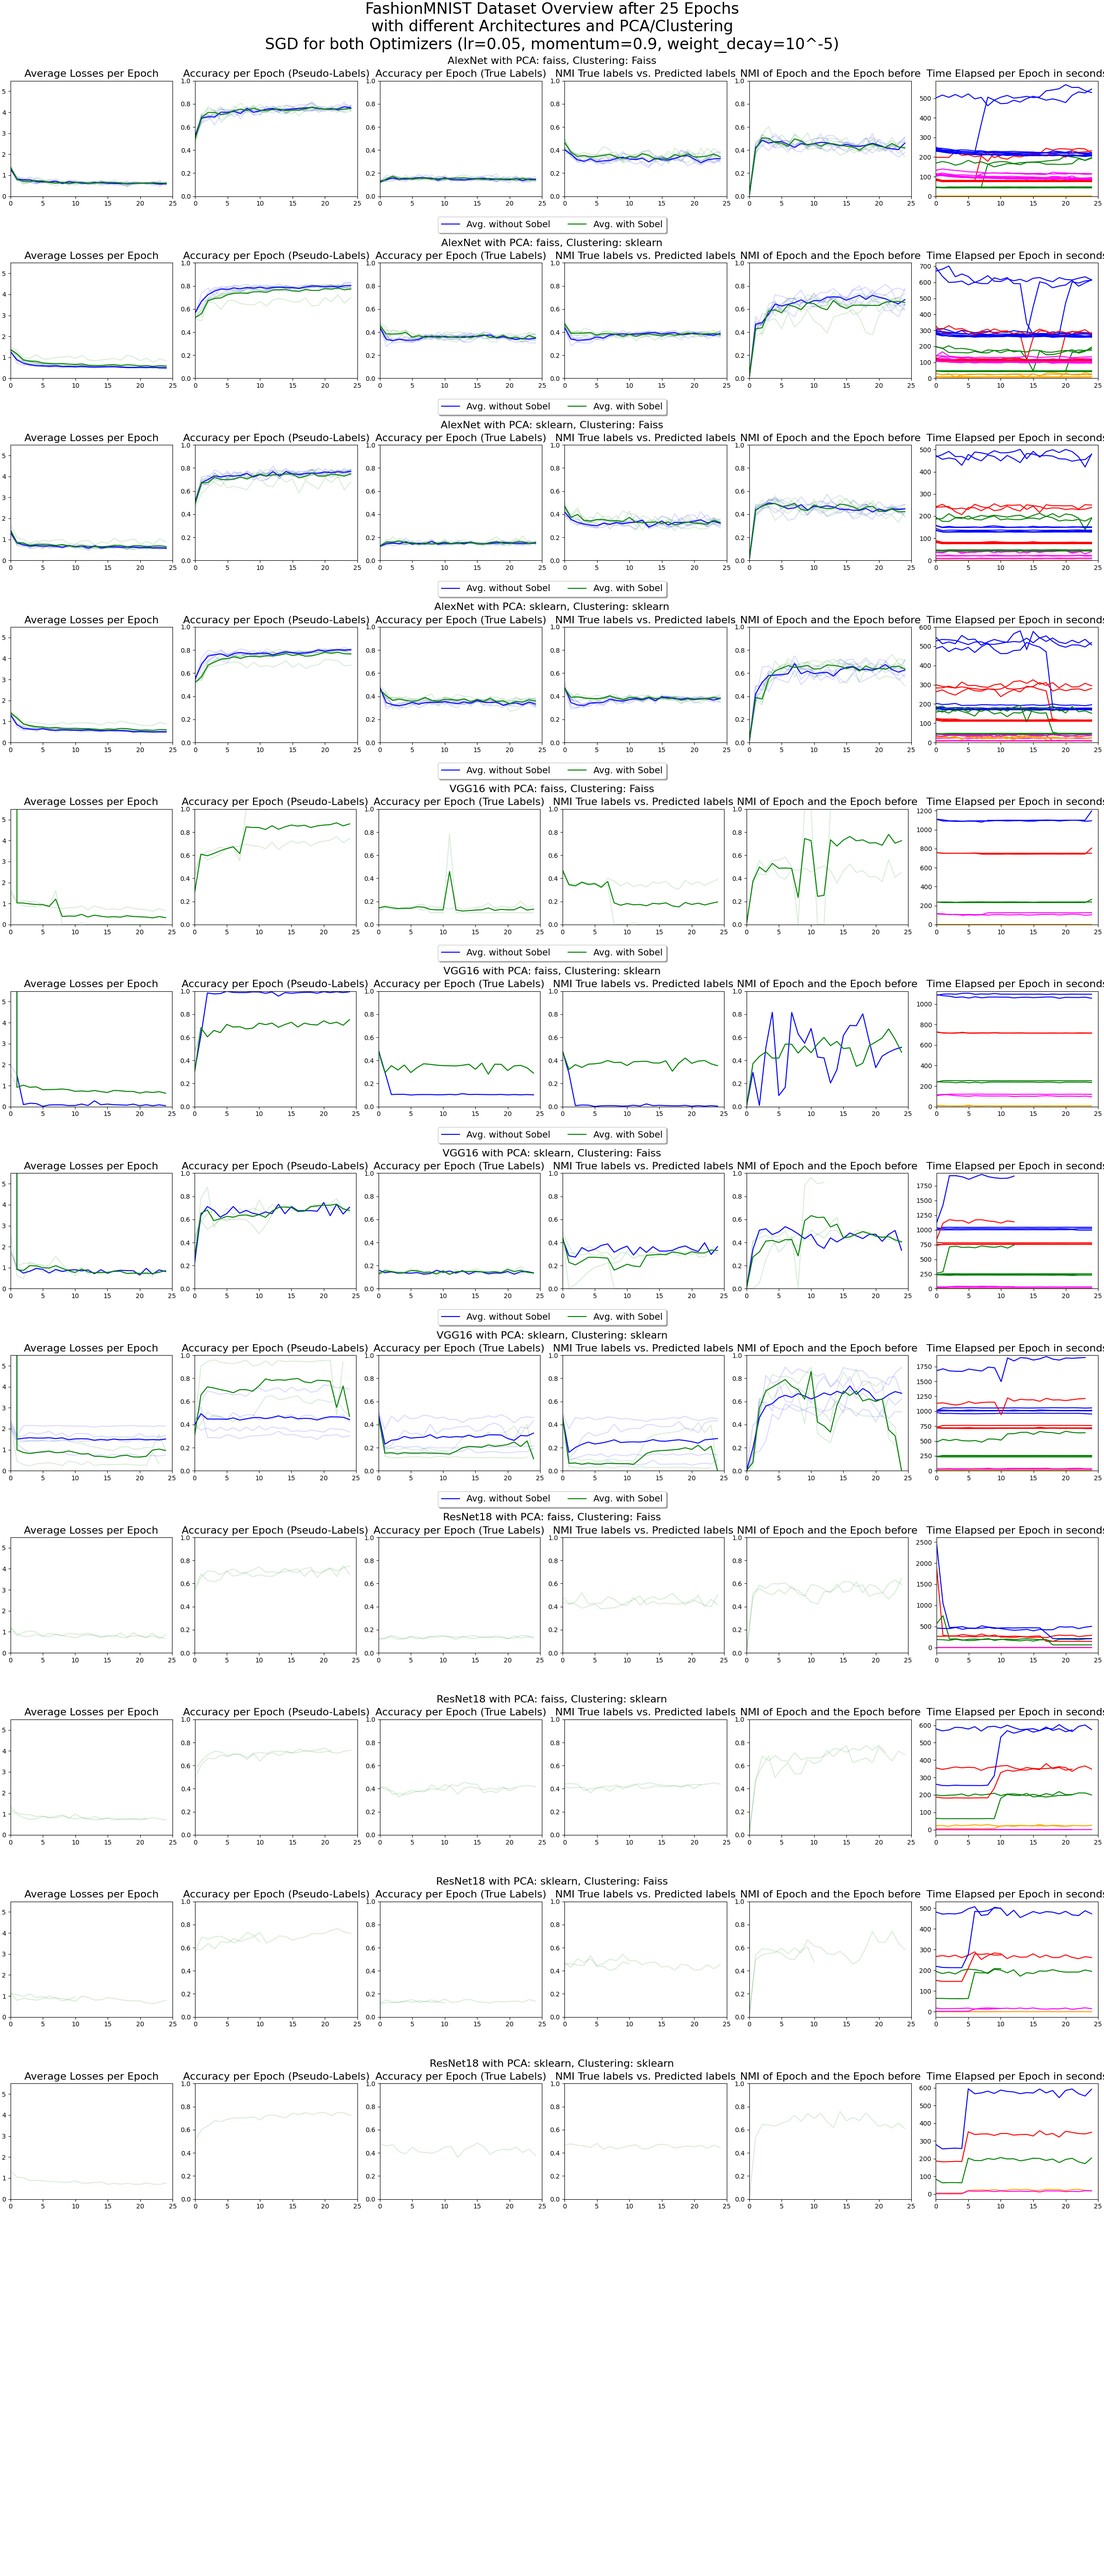
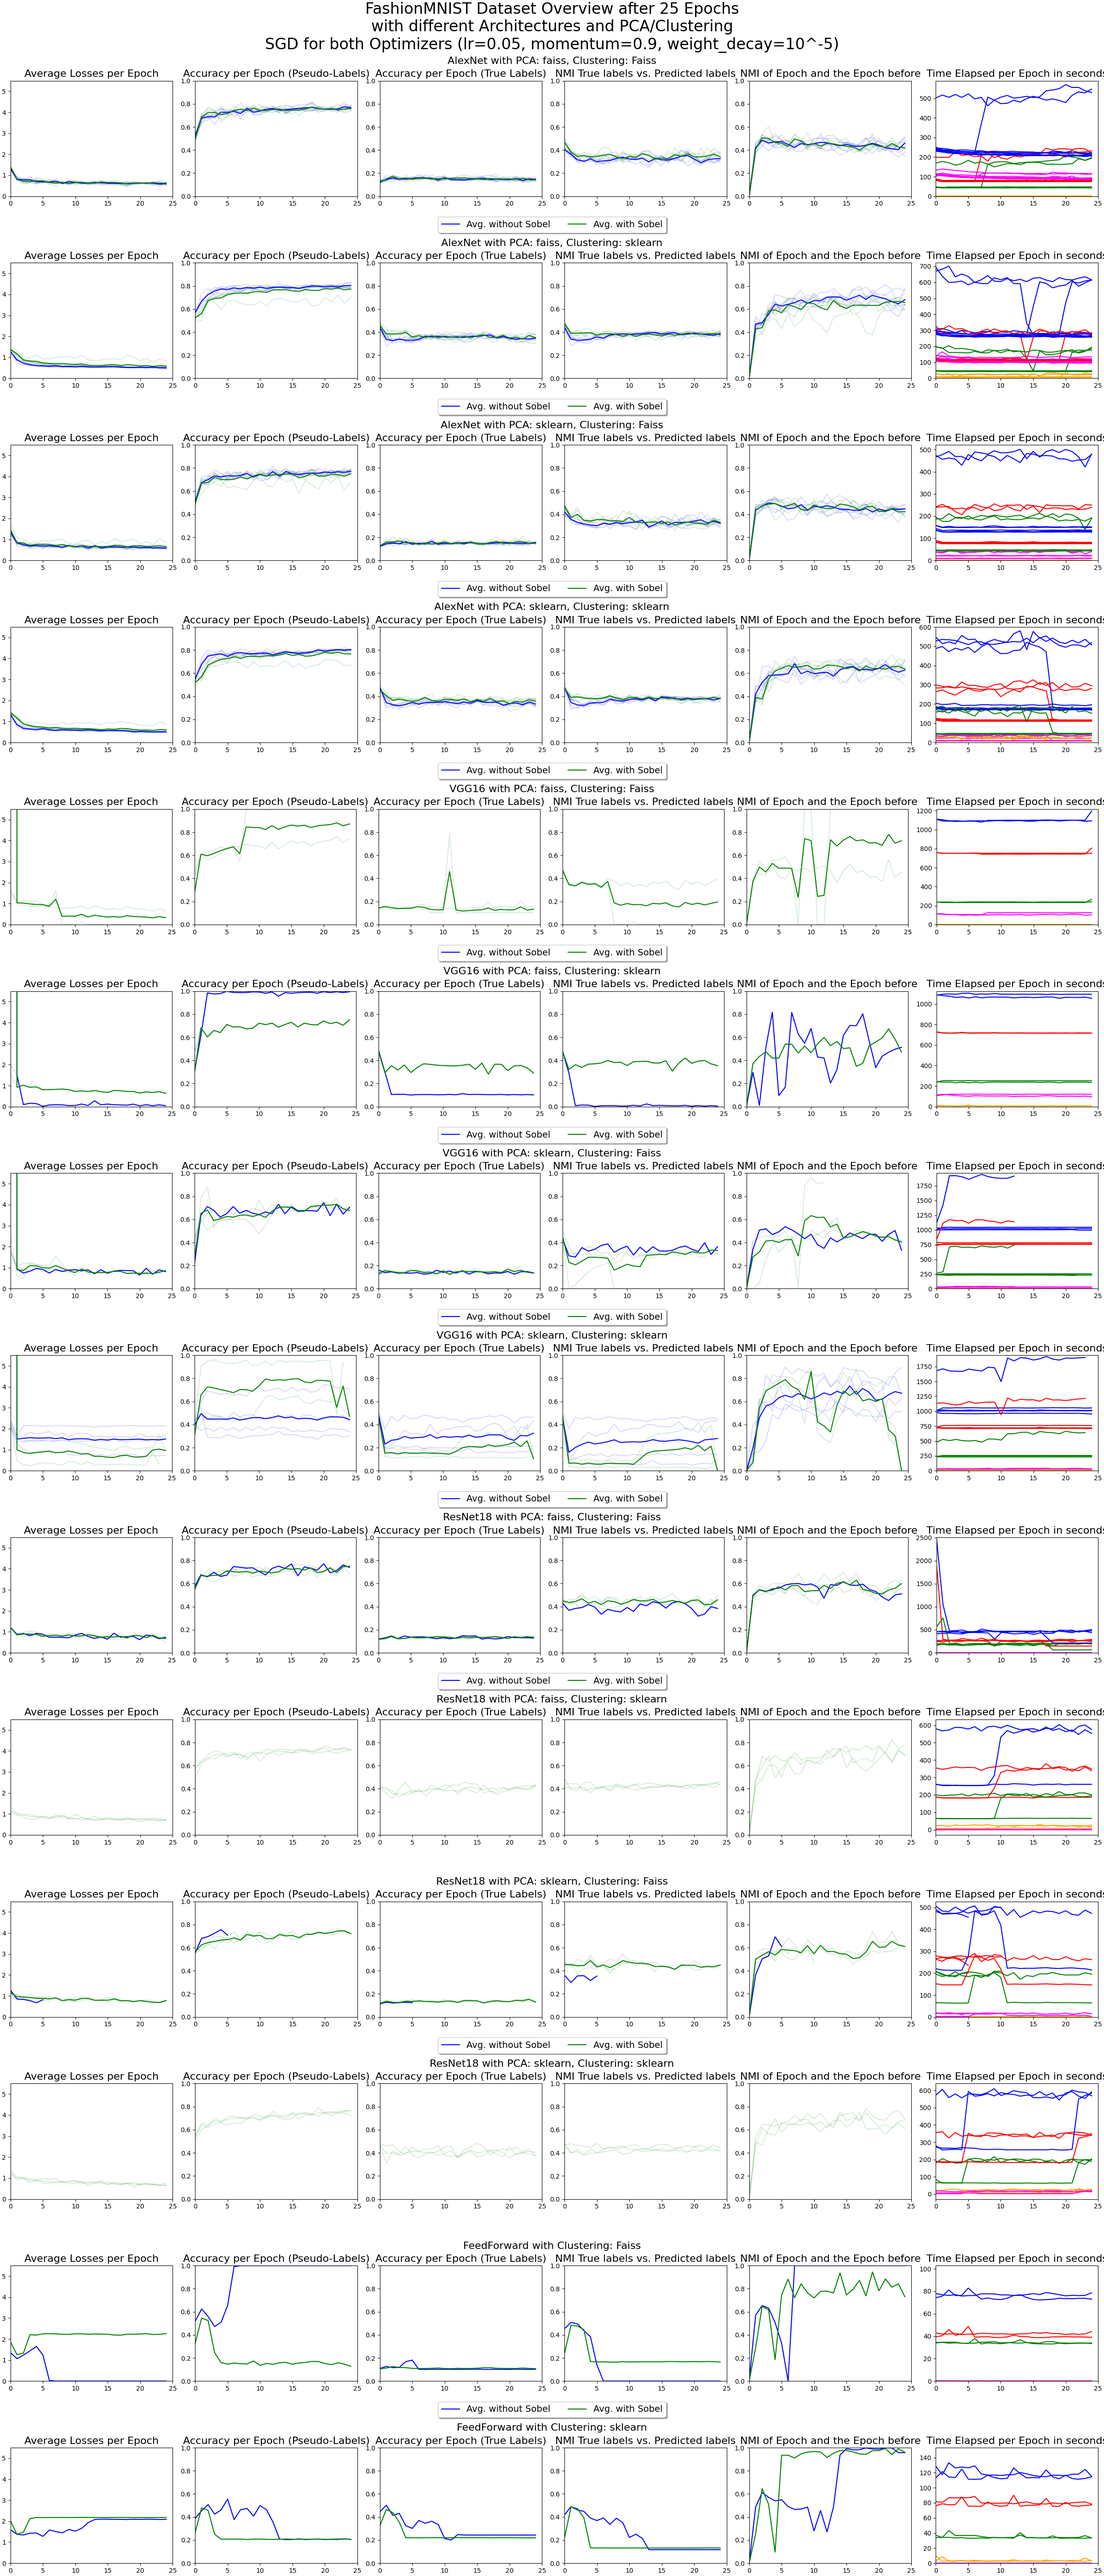
Update Readme and Results of current state

diff --git a/results/MNIST_results.md b/results/MNIST_results.md
@@ -45,6 +45,12 @@ for i in {1..5}; do python3 main.py --arch VGG16 --input_dim 1 --num_classes 10 
 ```bash
 for i in {1..5}; do python3 main.py --arch VGG16 --input_dim 2 --sobel --num_classes 10 --epochs 25 --requires_grad --dataset MNIST --ds_train --batch_size 32 --reassign_optimizer_tl --pca --pca_method faiss --pca_whitening --clustering faiss --metrics --metrics_dir ./metrics/MNIST/5_runs_100_epochs/ -v; python3 main.py --arch VGG16 --input_dim 2 --sobel --num_classes 10 --epochs 25 --requires_grad --dataset MNIST --ds_train --batch_size 32 --reassign_optimizer_tl --pca --pca_method sklearn --pca_whitening --clustering faiss --metrics --metrics_dir ./metrics/MNIST/5_runs_100_epochs/ -v; python3 main.py --arch VGG16 --input_dim 2 --sobel --num_classes 10 --epochs 25 --requires_grad --dataset MNIST --ds_train --batch_size 32 --reassign_optimizer_tl --pca --pca_method faiss --pca_whitening --clustering sklearn --metrics --metrics_dir ./metrics/MNIST/5_runs_100_epochs/ -v; python3 main.py --arch VGG16 --input_dim 2 --sobel --num_classes 10 --epochs 25 --requires_grad --dataset MNIST --ds_train --batch_size 32 --reassign_optimizer_tl --pca --pca_method sklearn --pca_whitening --clustering sklearn --metrics --metrics_dir ./metrics/MNIST/5_runs_100_epochs/ -v; done
 ```
+
+**Adjusted class size**
+```bash (cancalit)
+for i in 20 50 100; do python3 main.py --arch VGG16 --input_dim 1 --num_classes $i --epochs 25 --requires_grad --dataset MNIST --ds_train --batch_size 32 --reassign_optimizer_tl --pca --pca_method faiss --pca_whitening --clustering faiss --metrics --metrics_dir ./metrics/MNIST/5_runs_100_epochs/ -v --remove_head; python3 main.py --arch VGG16 --input_dim 1 --num_classes $i --epochs 25 --requires_grad --dataset MNIST --ds_train --batch_size 32 --reassign_optimizer_tl --pca --pca_method faiss --pca_whitening --clustering sklearn --metrics --metrics_dir ./metrics/MNIST/5_runs_100_epochs/ -v --remove_head; python3 main.py --arch VGG16 --input_dim 2 --num_classes $i --sobel --epochs 25 --requires_grad --dataset MNIST --ds_train --batch_size 32 --reassign_optimizer_tl --pca --pca_method faiss --pca_whitening --clustering faiss --metrics --metrics_dir ./metrics/MNIST/5_runs_100_epochs/ -v --remove_head; python3 main.py --arch VGG16 --input_dim 2 --num_classes $i --sobel --epochs 25 --requires_grad --dataset MNIST --ds_train --batch_size 32 --reassign_optimizer_tl --pca --pca_method faiss --pca_whitening --clustering sklearn --metrics --metrics_dir ./metrics/MNIST/5_runs_100_epochs/ -v --remove_head; done
+```
+
 ---
 
 
@@ -60,7 +66,7 @@ for i in {1..5}; do python3 main.py --arch ResNet18 --input_dim 2 --sobel --num_
 ```
 
 **Adjusted class size**
-```bash
+```bash (cipollino)
 for i in 20 50 100; do python3 main.py --arch ResNet18 --input_dim 1 --num_classes $i --epochs 25 --requires_grad --dataset MNIST --ds_train --batch_size 128 --reassign_optimizer_tl --pca --pca_method faiss --pca_whitening --clustering faiss --metrics --metrics_dir ./metrics/MNIST/5_runs_100_epochs/ -v --remove_head; python3 main.py --arch ResNet18 --input_dim 1 --num_classes $i --epochs 25 --requires_grad --dataset MNIST --ds_train --batch_size 128 --reassign_optimizer_tl --pca --pca_method faiss --pca_whitening --clustering sklearn --metrics --metrics_dir ./metrics/MNIST/5_runs_100_epochs/ -v --remove_head; python3 main.py --arch ResNet18 --input_dim 2 --num_classes $i --sobel --epochs 25 --requires_grad --dataset MNIST --ds_train --batch_size 128 --reassign_optimizer_tl --pca --pca_method faiss --pca_whitening --clustering faiss --metrics --metrics_dir ./metrics/MNIST/5_runs_100_epochs/ -v --remove_head; python3 main.py --arch ResNet18 --input_dim 2 --num_classes $i --sobel --epochs 25 --requires_grad --dataset MNIST --ds_train --batch_size 128 --reassign_optimizer_tl --pca --pca_method faiss --pca_whitening --clustering sklearn --metrics --metrics_dir ./metrics/MNIST/5_runs_100_epochs/ -v --remove_head; done
 ```
 
@@ -78,6 +84,6 @@ for i in {1..5}; do python3 main.py --arch FeedForward --input_dim 2 --sobel --n
 ```
 
 **Adjusted class size**
-```bash
+```bash (diatomit)
 for i in 20 50 100; do python3 main.py --arch FeedForward --input_dim 1 --num_classes $i --epochs 25 --requires_grad --dataset MNIST --ds_train --batch_size 128 --reassign_optimizer_tl --clustering faiss --metrics --metrics_dir ./metrics/MNIST/5_runs_100_epochs/ -v --remove_head; python3 main.py --arch FeedForward --input_dim 1 --num_classes $i --epochs 25 --requires_grad --dataset MNIST --ds_train --batch_size 128 --reassign_optimizer_tl --clustering sklearn --metrics --metrics_dir ./metrics/MNIST/5_runs_100_epochs/ -v --remove_head; python3 main.py --arch FeedForward --input_dim 2 --num_classes $i --sobel --epochs 25 --requires_grad --dataset MNIST --ds_train --batch_size 128 --reassign_optimizer_tl --clustering faiss --metrics --metrics_dir ./metrics/MNIST/5_runs_100_epochs/ -v --remove_head; python3 main.py --arch FeedForward --input_dim 2 --num_classes $i --sobel --epochs 25 --requires_grad --dataset MNIST --ds_train --batch_size 128 --reassign_optimizer_tl --clustering sklearn --metrics --metrics_dir ./metrics/MNIST/5_runs_100_epochs/ -v --remove_head; done
 ```

diff --git a/results/FashionMNIST_results.md b/results/FashionMNIST_results.md
@@ -49,11 +49,11 @@ for i in {1..5}; do python3 main.py --arch VGG16 --input_dim 2 --sobel --num_cla
 
 #### ResNet18
 **Without Sobel**:
-```bash
+```bash (biolithe)
 for i in {1..3}; do python3 main.py --arch ResNet18 --input_dim 1 --num_classes 10 --epochs 25 --requires_grad --dataset FashionMNIST --ds_train --batch_size 128 --reassign_optimizer_tl --pca --pca_method faiss --pca_whitening --clustering faiss --metrics --metrics_dir ./metrics/FashionMNIST/5_runs_100_epochs/ -v; python3 main.py --arch ResNet18 --input_dim 1 --num_classes 10 --epochs 25 --requires_grad --dataset FashionMNIST --ds_train --batch_size 128 --reassign_optimizer_tl --pca --pca_method sklearn --pca_whitening --clustering faiss --metrics --metrics_dir ./metrics/FashionMNIST/5_runs_100_epochs/ -v; python3 main.py --arch ResNet18 --input_dim 1 --num_classes 10 --epochs 25 --requires_grad --dataset FashionMNIST --ds_train --batch_size 128 --reassign_optimizer_tl --pca --pca_method faiss --pca_whitening --clustering sklearn --metrics --metrics_dir ./metrics/FashionMNIST/5_runs_100_epochs/ -v; python3 main.py --arch ResNet18 --input_dim 1 --num_classes 10 --epochs 25 --requires_grad --dataset FashionMNIST --ds_train --batch_size 128 --reassign_optimizer_tl --pca --pca_method sklearn --pca_whitening --clustering sklearn --metrics --metrics_dir ./metrics/FashionMNIST/5_runs_100_epochs/ -v; done
 ```
 
-**With Sobel**: (biolithe)
+**With Sobel**: 
 ```bash
 for i in {1..3}; do python3 main.py --arch ResNet18 --input_dim 2 --sobel --num_classes 10 --epochs 25 --requires_grad --dataset FashionMNIST --ds_train --batch_size 128 --reassign_optimizer_tl --pca --pca_method faiss --pca_whitening --clustering faiss --metrics --metrics_dir ./metrics/FashionMNIST/5_runs_100_epochs/ -v; python3 main.py --arch ResNet18 --input_dim 2 --sobel --num_classes 10 --epochs 25 --requires_grad --dataset FashionMNIST --ds_train --batch_size 128 --reassign_optimizer_tl --pca --pca_method sklearn --pca_whitening --clustering faiss --metrics --metrics_dir ./metrics/FashionMNIST/5_runs_100_epochs/ -v; python3 main.py --arch ResNet18 --input_dim 2 --sobel --num_classes 10 --epochs 25 --requires_grad --dataset FashionMNIST --ds_train --batch_size 128 --reassign_optimizer_tl --pca --pca_method faiss --pca_whitening --clustering sklearn --metrics --metrics_dir ./metrics/FashionMNIST/5_runs_100_epochs/ -v; python3 main.py --arch ResNet18 --input_dim 2 --sobel --num_classes 10 --epochs 25 --requires_grad --dataset FashionMNIST --ds_train --batch_size 128 --reassign_optimizer_tl --pca --pca_method sklearn --pca_whitening --clustering sklearn --metrics --metrics_dir ./metrics/FashionMNIST/5_runs_100_epochs/ -v; done
 ```

diff --git a/results/CIFAR10_results.md b/results/CIFAR10_results.md
@@ -63,7 +63,7 @@ for i in {1..5}; do python3 main.py --arch ResNet18 --input_dim 3 --num_classes 
 ```
 
 **With Sobel**:
-```bash
+```bash (diamiktit)
 for i in {1..5}; do python3 main.py --arch ResNet18 --input_dim 2 --grayscale --sobel --num_classes 10 --epochs 25 --requires_grad --dataset CIFAR10 --ds_train --batch_size 128 --reassign_optimizer_tl --pca --pca_method faiss --pca_whitening --clustering faiss --metrics --metrics_dir ./metrics/CIFAR10/5_runs_100_epochs/ -v; python3 main.py --arch ResNet18 --input_dim 2 --grayscale --sobel --num_classes 10 --epochs 25 --requires_grad --dataset CIFAR10 --ds_train --batch_size 128 --reassign_optimizer_tl --pca --pca_method sklearn --pca_whitening --clustering faiss --metrics --metrics_dir ./metrics/CIFAR10/5_runs_100_epochs/ -v; python3 main.py --arch ResNet18 --input_dim 2 --grayscale --sobel --num_classes 10 --epochs 25 --requires_grad --dataset CIFAR10 --ds_train --batch_size 128 --reassign_optimizer_tl --pca --pca_method faiss --pca_whitening --clustering sklearn --metrics --metrics_dir ./metrics/CIFAR10/5_runs_100_epochs/ -v; python3 main.py --arch ResNet18 --input_dim 2 --grayscale --sobel --num_classes 10 --epochs 25 --requires_grad --dataset CIFAR10 --ds_train --batch_size 128 --reassign_optimizer_tl --pca --pca_method sklearn --pca_whitening --clustering sklearn --metrics --metrics_dir ./metrics/CIFAR10/5_runs_100_epochs/ -v; done
 ```
 
@@ -86,6 +86,6 @@ for i in {1..5}; do python3 main.py --arch FeedForward --input_dim 2 --grayscale
 ```
 
 **Adjusted class size**
-```bash (aplit)
+```bash
 for i in 20 50 100; do python3 main.py --arch FeedForward --input_dim 3 --num_classes $i --epochs 25 --requires_grad --dataset CIFAR10 --ds_train --batch_size 128 --reassign_optimizer_tl --clustering faiss --metrics --metrics_dir ./metrics/CIFAR10/5_runs_100_epochs/ -v --remove_head; python3 main.py --arch FeedForward --input_dim 3 --num_classes $i --epochs 25 --requires_grad --dataset CIFAR10 --ds_train --batch_size 128 --reassign_optimizer_tl --clustering sklearn --metrics --metrics_dir ./metrics/CIFAR10/5_runs_100_epochs/ -v --remove_head; python3 main.py --arch FeedForward --input_dim 2 --num_classes $i --grayscale --sobel --epochs 25 --requires_grad --dataset CIFAR10 --ds_train --batch_size 128 --reassign_optimizer_tl --clustering faiss --metrics --metrics_dir ./metrics/CIFAR10/5_runs_100_epochs/ -v --remove_head; python3 main.py --arch FeedForward --input_dim 2 --num_classes $i --grayscale --sobel --epochs 25 --requires_grad --dataset CIFAR10 --ds_train --batch_size 128 --reassign_optimizer_tl --clustering sklearn --metrics --metrics_dir ./metrics/CIFAR10/5_runs_100_epochs/ -v --remove_head; done
 ```

diff --git a/results/GTSRB_results.md b/results/GTSRB_results.md
@@ -34,12 +34,12 @@ for i in 20 50 100; do python3 main.py --arch AlexNet --input_dim 3 --num_classe
 
 #### VGG16
 **Without Sobel**:
-```bash
+```bash (aplit)
 python3 main.py --arch VGG16 --input_dim 3 --num_classes 10 --epochs 25 --requires_grad --dataset GTSRB --ds_train --batch_size 32 --reassign_optimizer_tl --pca --pca_method faiss --pca_whitening --clustering faiss --metrics --metrics_dir ./metrics/GTSRB/5_runs_100_epochs/ -v --remove_head; python3 main.py --arch VGG16 --input_dim 3 --num_classes 10 --epochs 25 --requires_grad --dataset GTSRB --ds_train --batch_size 32 --reassign_optimizer_tl --pca --pca_method sklearn --pca_whitening --clustering faiss --metrics --metrics_dir ./metrics/GTSRB/5_runs_100_epochs/ -v --remove_head; python3 main.py --arch VGG16 --input_dim 3 --num_classes 10 --epochs 25 --requires_grad --dataset GTSRB --ds_train --batch_size 32 --reassign_optimizer_tl --pca --pca_method faiss --pca_whitening --clustering sklearn --metrics --metrics_dir ./metrics/GTSRB/5_runs_100_epochs/ -v --remove_head; python3 main.py --arch VGG16 --input_dim 3 --num_classes 10 --epochs 25 --requires_grad --dataset GTSRB --ds_train --batch_size 32 --reassign_optimizer_tl --pca --pca_method sklearn --pca_whitening --clustering sklearn --metrics --metrics_dir ./metrics/GTSRB/5_runs_100_epochs/ -v --remove_head; 
 ```
 
 **With Sobel**:
-```bash
+```bash (aplit)
 python3 main.py --arch VGG16 --input_dim 2 --grayscale --sobel --num_classes 10 --epochs 25 --requires_grad --dataset GTSRB --ds_train --batch_size 32 --reassign_optimizer_tl --pca --pca_method faiss --pca_whitening --clustering faiss --metrics --metrics_dir ./metrics/GTSRB/5_runs_100_epochs/ -v --remove_head; python3 main.py --arch VGG16 --input_dim 2 --grayscale --sobel --num_classes 10 --epochs 25 --requires_grad --dataset GTSRB --ds_train --batch_size 32 --reassign_optimizer_tl --pca --pca_method sklearn --pca_whitening --clustering faiss --metrics --metrics_dir ./metrics/GTSRB/5_runs_100_epochs/ -v --remove_head; python3 main.py --arch VGG16 --input_dim 2 --grayscale --sobel --num_classes 10 --epochs 25 --requires_grad --dataset GTSRB --ds_train --batch_size 32 --reassign_optimizer_tl --pca --pca_method faiss --pca_whitening --clustering sklearn --metrics --metrics_dir ./metrics/GTSRB/5_runs_100_epochs/ -v --remove_head; python3 main.py --arch VGG16 --input_dim 2 --grayscale --sobel --num_classes 10 --epochs 25 --requires_grad --dataset GTSRB --ds_train --batch_size 32 --reassign_optimizer_tl --pca --pca_method sklearn --pca_whitening --clustering sklearn --metrics --metrics_dir ./metrics/GTSRB/5_runs_100_epochs/ -v --remove_head; 
 ```
 ---

diff --git a/README.md b/README.md
@@ -65,9 +65,13 @@ Here is a figure of the process:
 
 ---
 
-## Metrics
+## Results
 
-For results on datasets, see:
+### A general overview for the datasets (MNIST, CIFAR10, FashionMNIST, GTSRB) after 25 epochs
+
+![image](/images/DeepCluster_Overview_4_Datasets_25_epochs.png)
+
+For detailed results on the chosen datasets, see:
 
 - [MNIST](/results/MNIST_results.md)
 - [CIFAR10](/results/CIFAR10_results.md)
